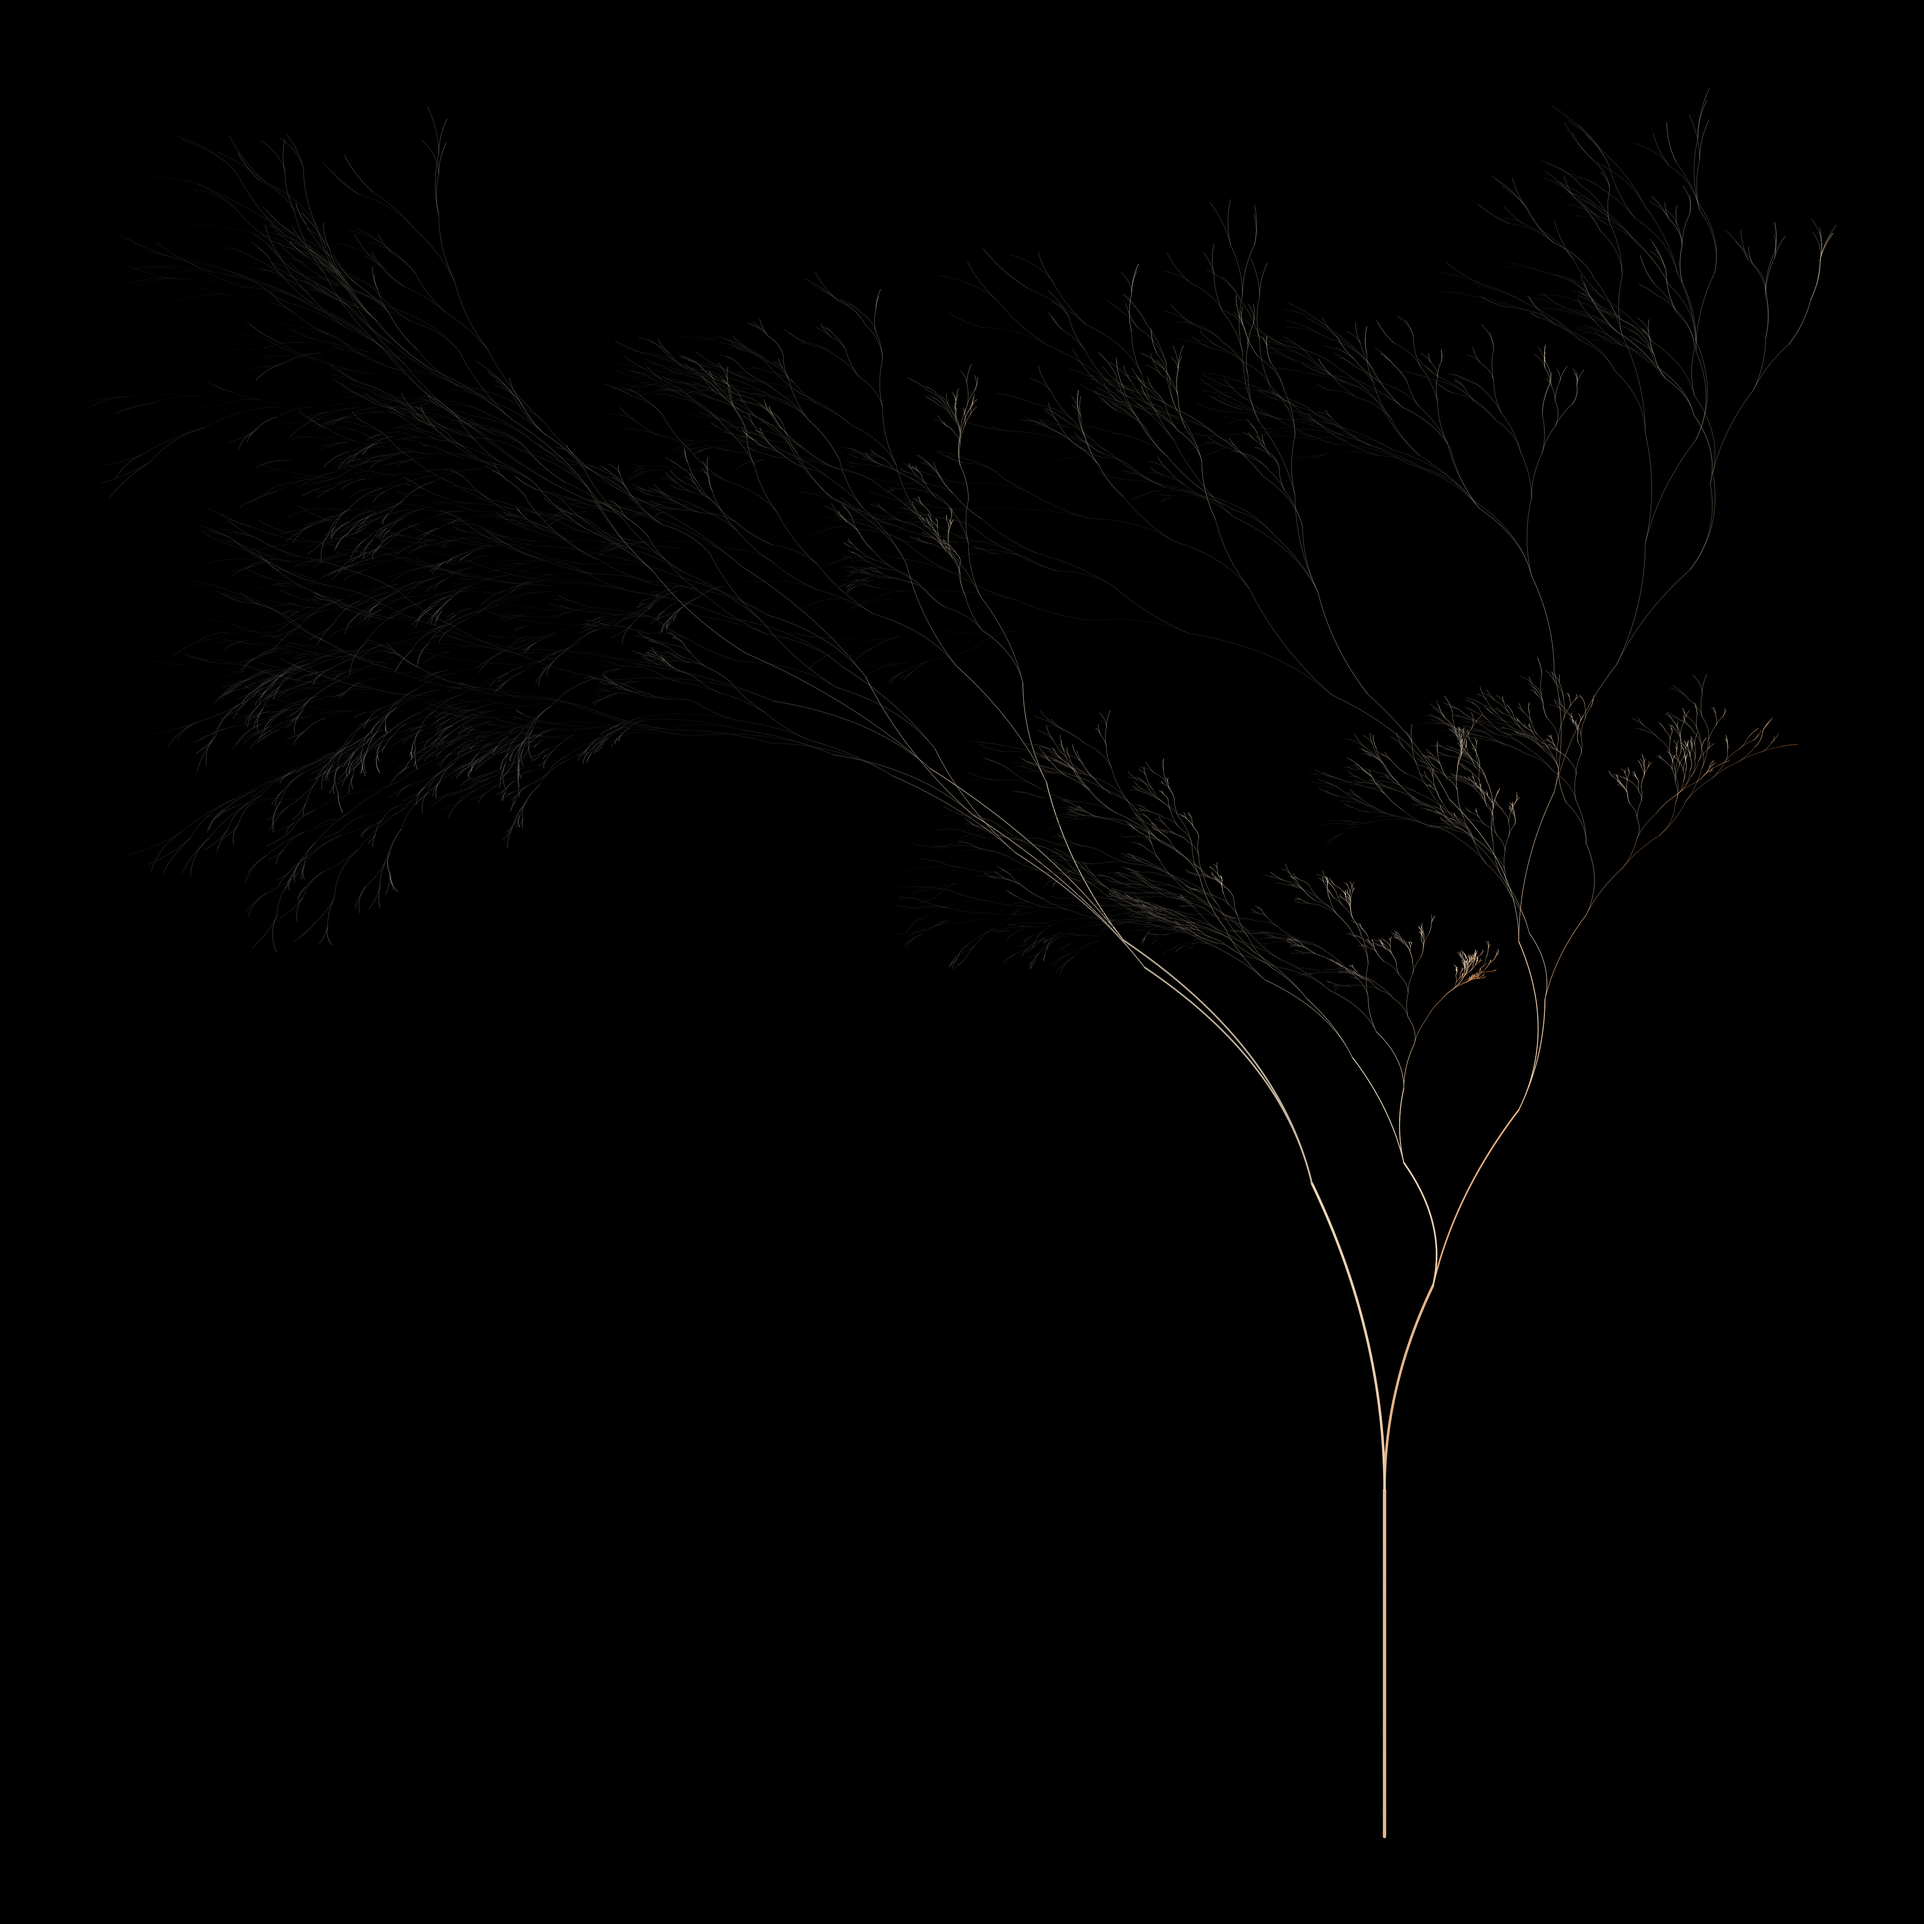
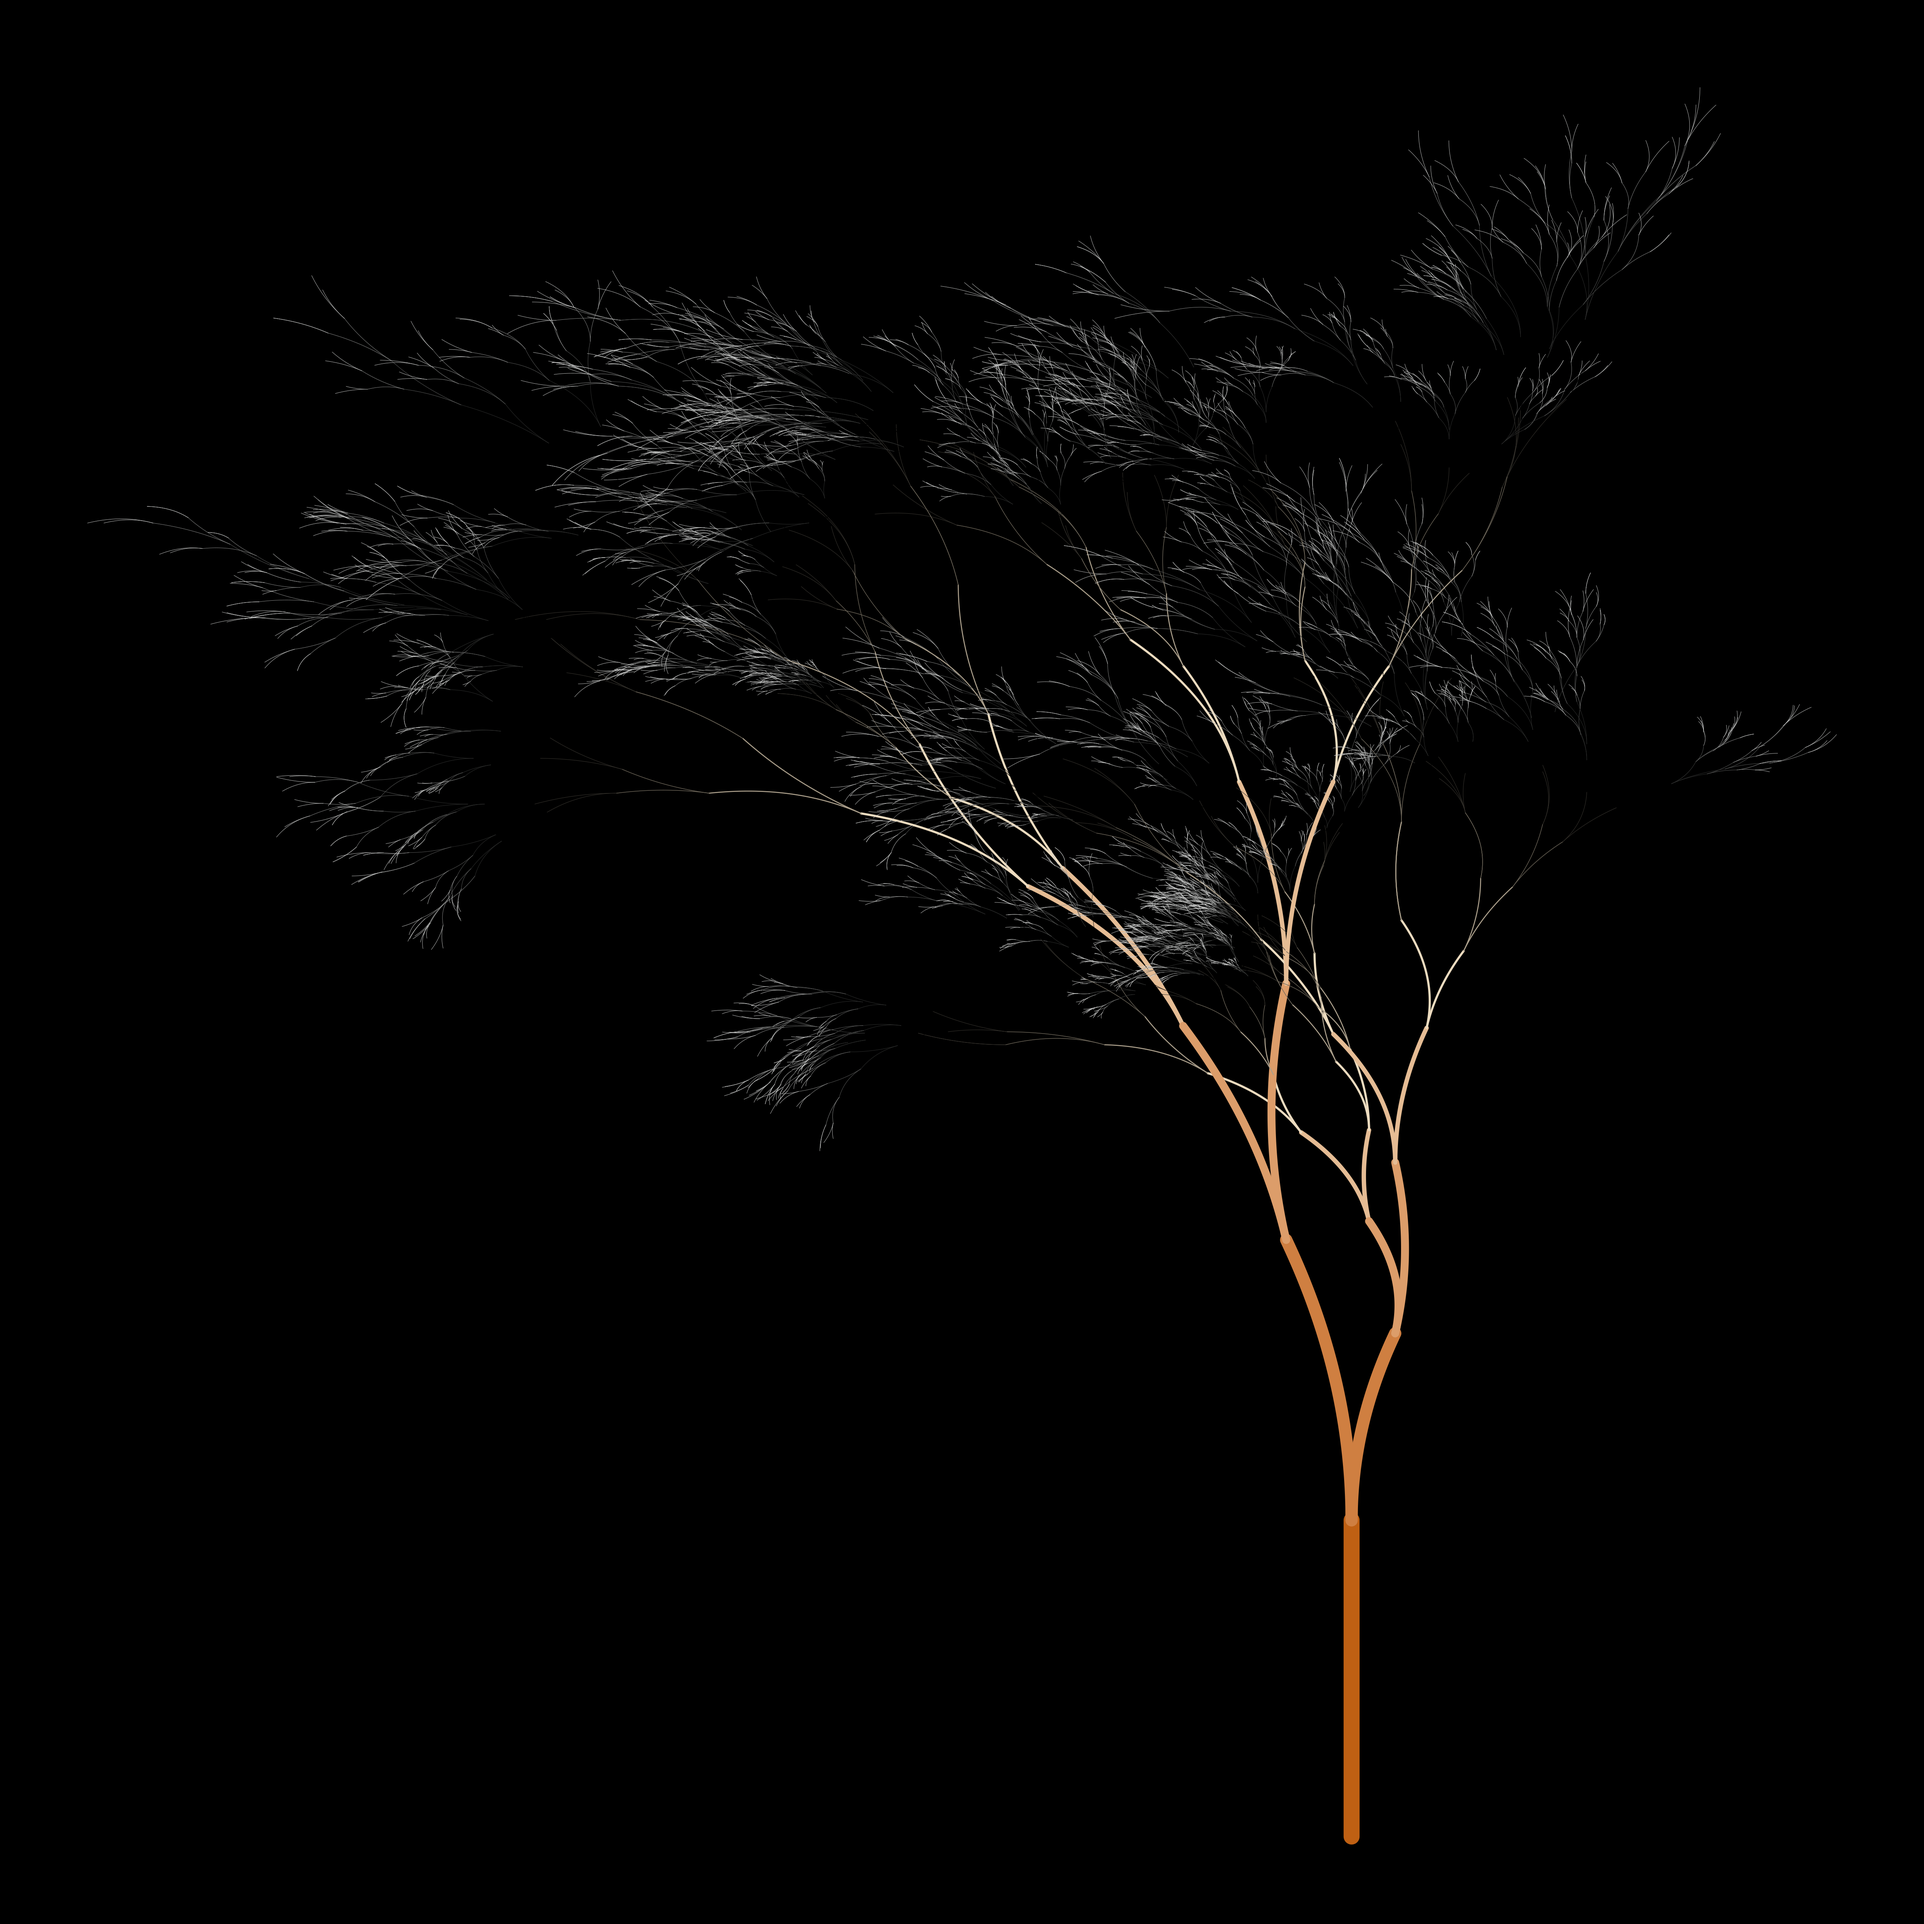
cleaner spark functions

diff --git a/README.md b/README.md
@@ -31,7 +31,7 @@ devtools::install_github("djnavarro/flametree")
 ``` r
 library(flametree)
 
-flametree_grow(seed = 4, time = 12)  %>% 
+flametree_grow(time = 12) %>% 
   flametree_plot()         
 ```
 
@@ -45,7 +45,7 @@ flametree_grow(seed = 1, trees = 5)  %>%
 <img src="man/figures/README-example-2-1.png" width="80%" />
 
 ``` r
-flametree_grow(trees = 16)  %>% 
+flametree_grow(trees = 16, shift_x = spark_nothing())  %>% 
   flametree_plot(style = "nativeflora")
 ```
 
